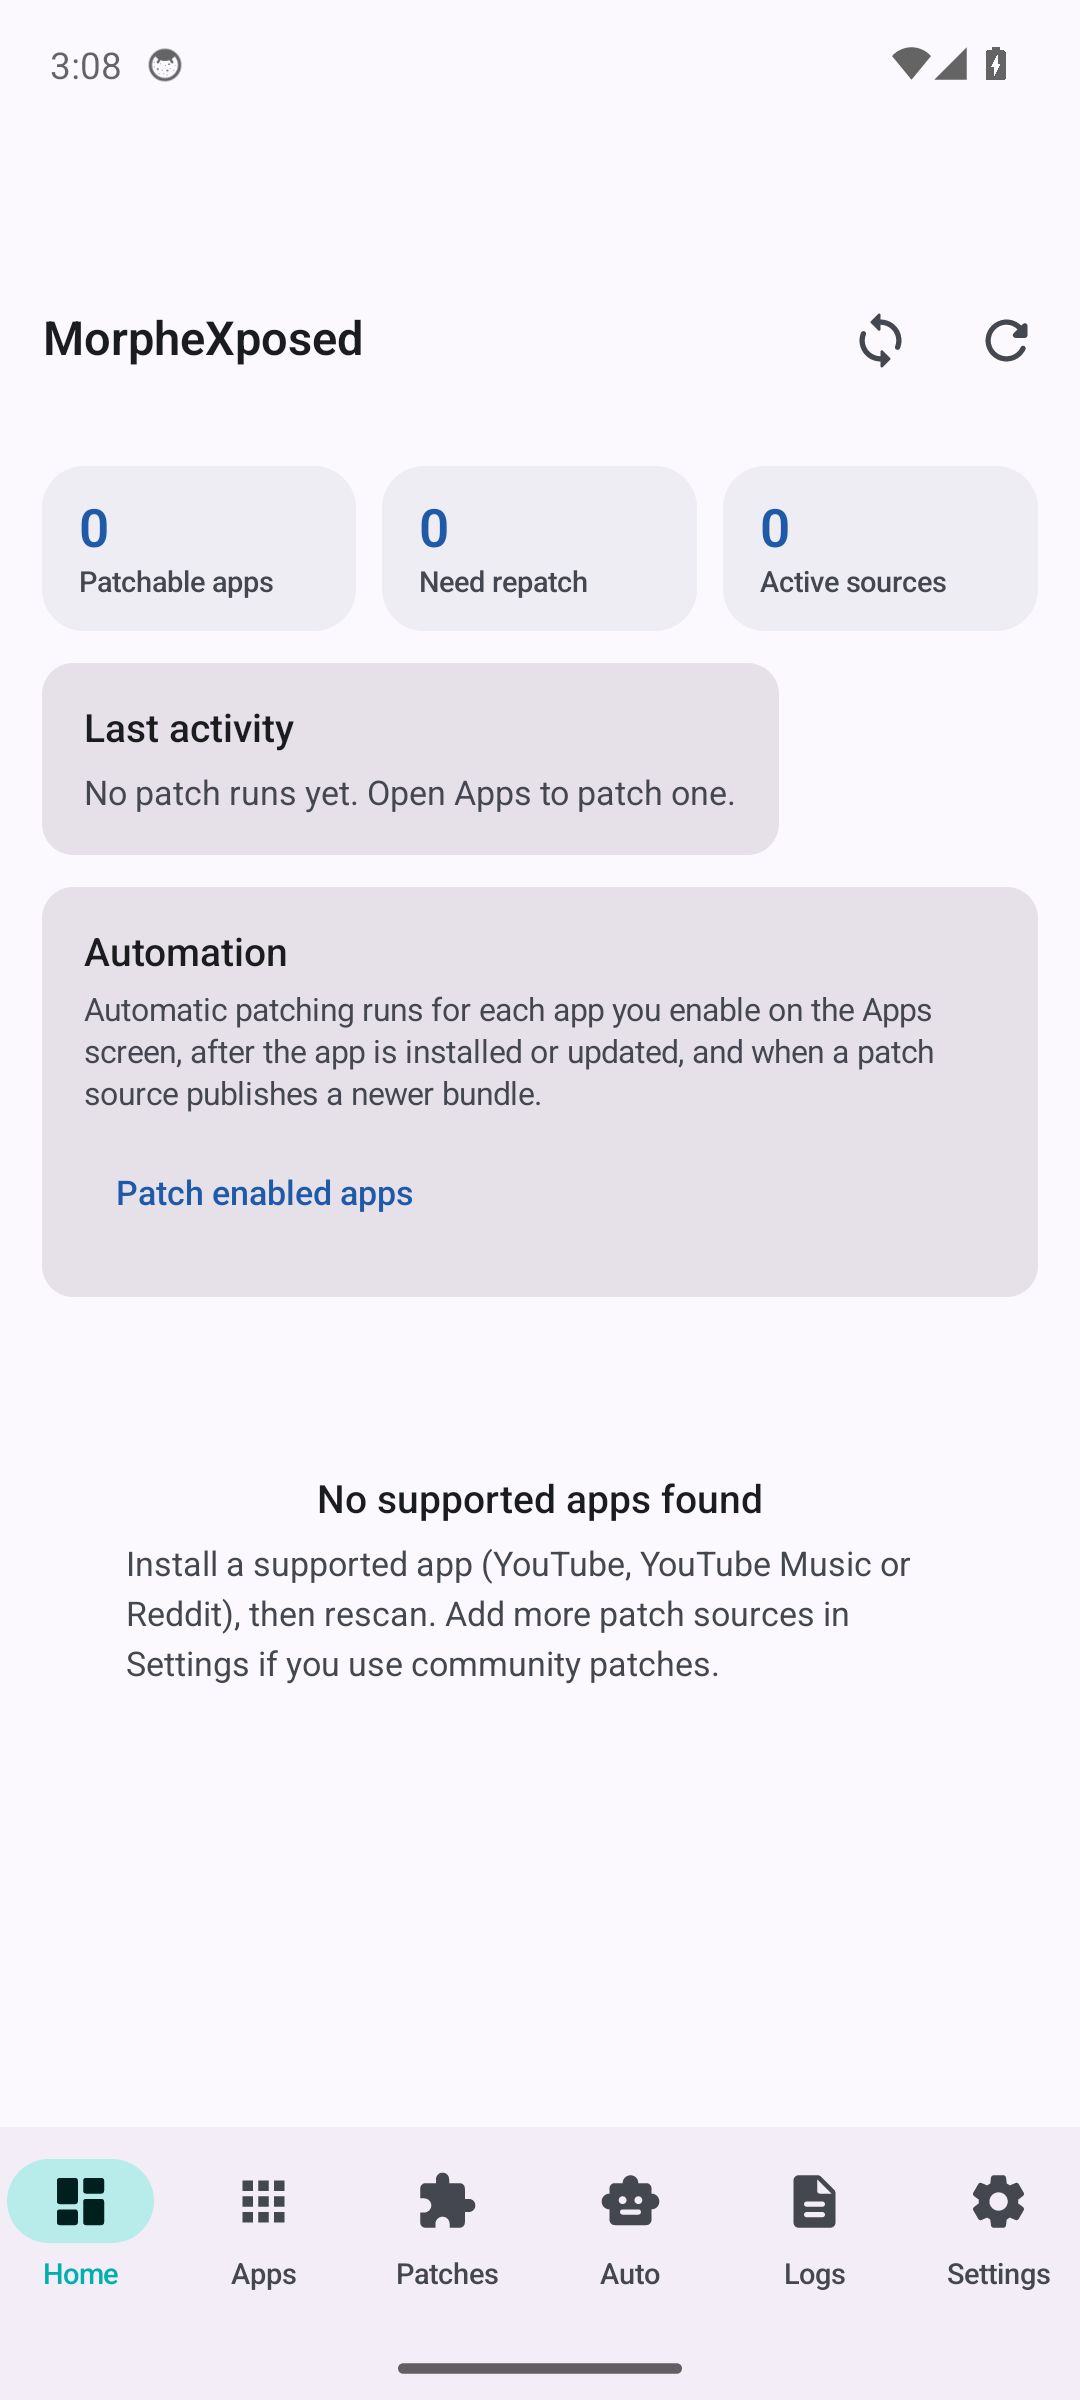
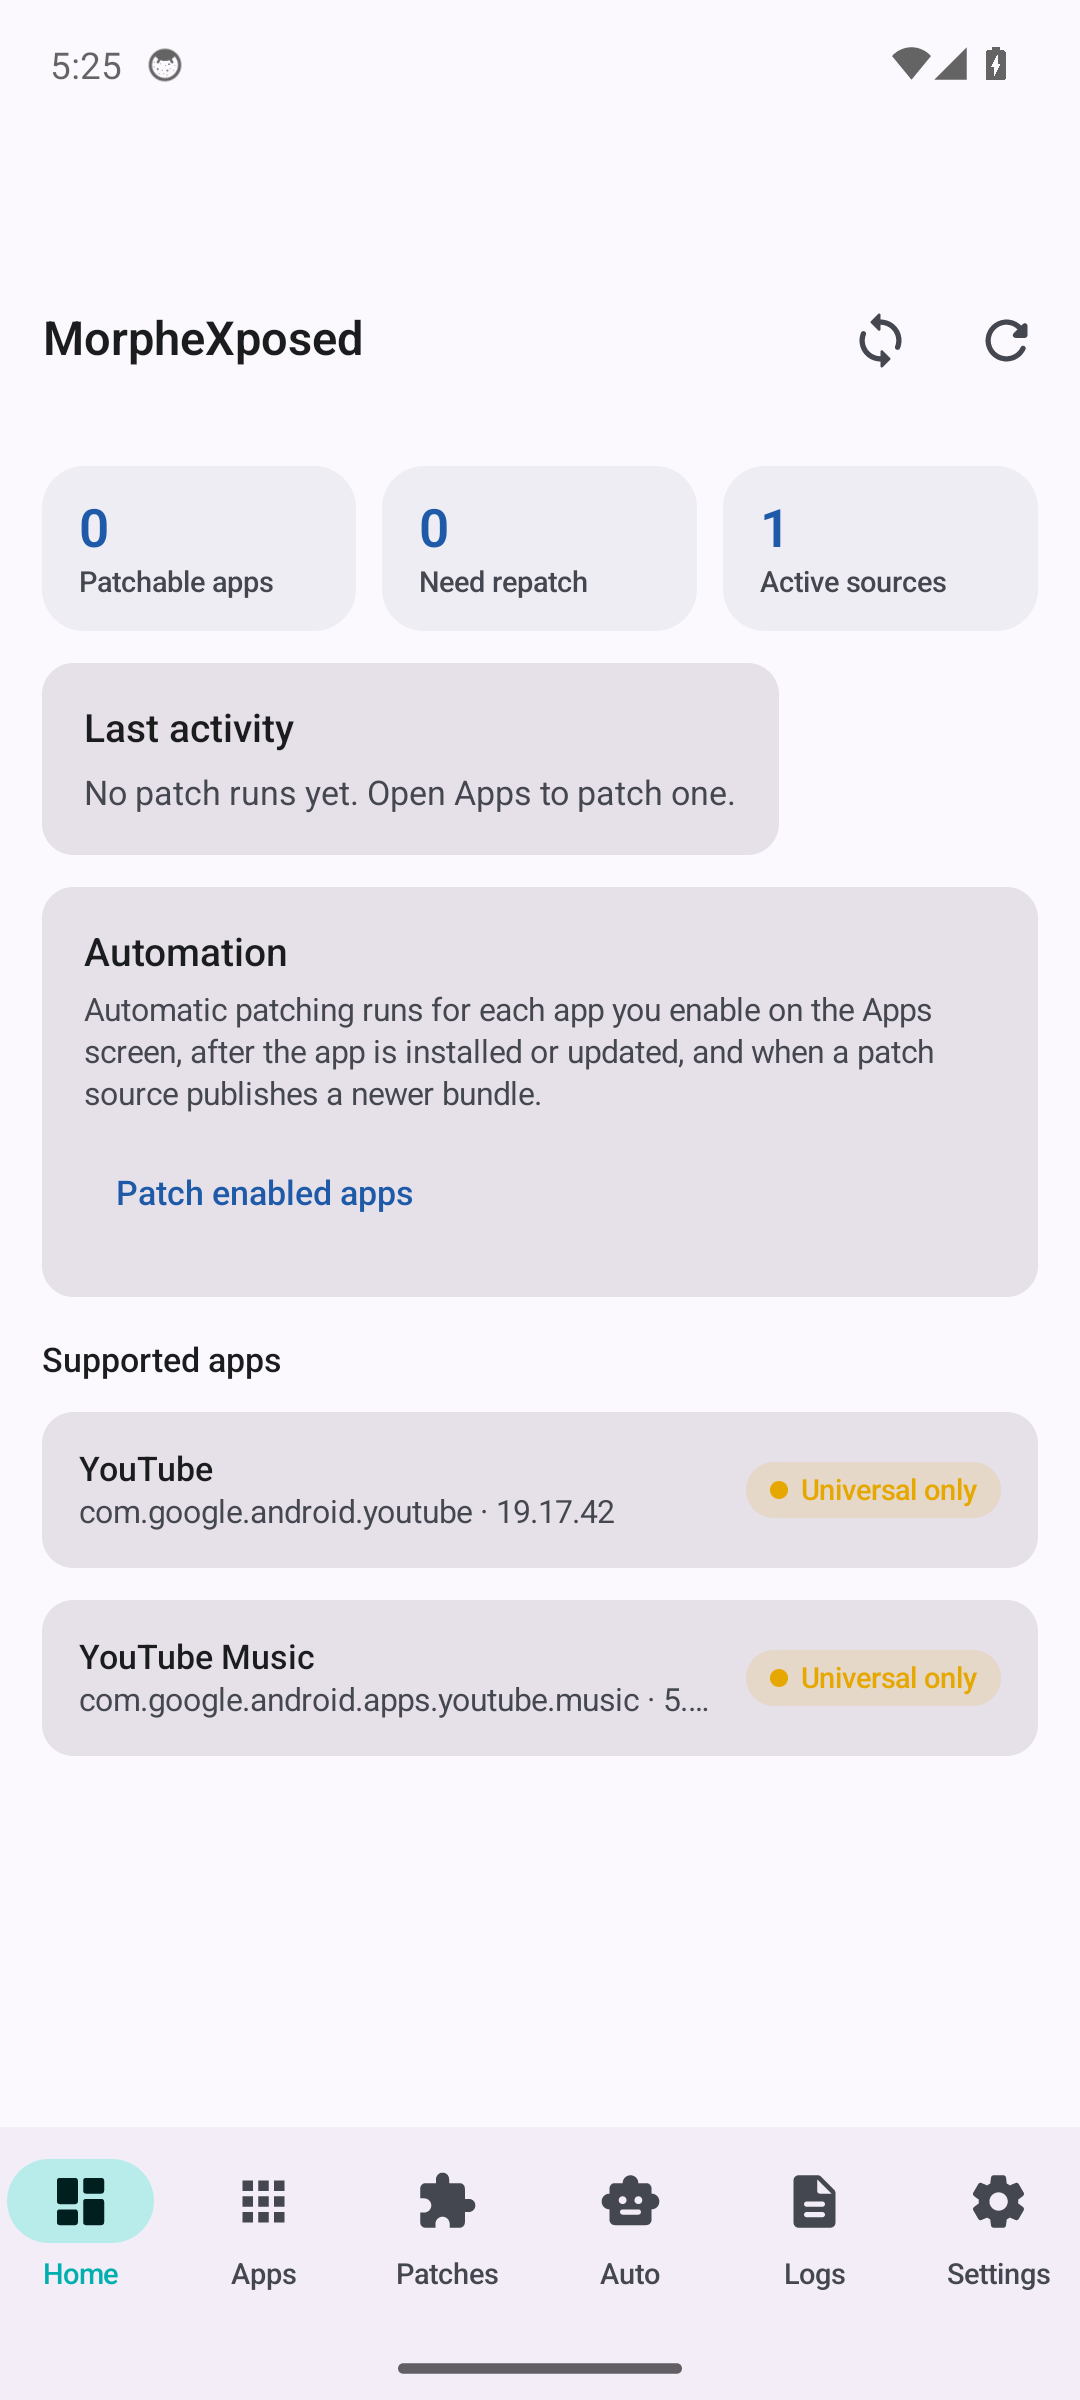
Fix three defects found by actually running the app on a device
Continuing the on-device pass. Each of these was invisible to every test.

1. Root detection assumed Magisk. RootShell hardcoded 'su -c', but the AOSP su on
   a userdebug build takes 'su <who> <command>' and rejects -c with 'invalid
   uid/gid'. The style is now probed once and cached, so both conventions work.

2. A doubled label: the Settings card appends ' (optional)' to every non-required
   item, and the LSPosed item's name already carried it - rendering
   'LSPosed (optional) (optional)'. A regression test now asserts no item repeats
   the suffix the card adds.

3. The Dashboard and the Apps screen disagreed about the same app at the same
   moment. AppUiModel.status fell back to NOT_SUPPORTED when the compatibility
   report had not been computed yet, so 'not evaluated' was rendered as the claim
   'Not supported' while the Apps screen, which had the report, said 'Universal
   only'. The status is now nullable and renders 'Checking...' when absent;
   absence of a verdict is not a verdict.

Verified on the emulator: the Dashboard now shows 'Universal only' for both
YouTube 19.17.42 and YouTube Music 5.54.52, matching the Apps screen.

Also worth recording: the emulator DOES have root (userdebug, adb root gives
uid=0), but /system/xbin/su is mode rwsr-x--- root:shell, so the app's own uid
cannot execute it. The Permissions card reporting 'Root access: Missing' is
therefore accurate, not a bug.

297 tests pass, 0 failures, 0 skipped.

Changed region(s): [[0.0306, 0.5625, 0.9778, 0.75], [0.7028, 0.1875, 0.7333, 0.25]]

diff --git a/app/src/main/java/dev/morphexposed/domain/install/Installers.kt b/app/src/main/java/dev/morphexposed/domain/install/Installers.kt
@@ -234,10 +234,68 @@ object RootShell {
     @Volatile
     private var cachedRoot: Boolean? = null
 
+    /**
+     * How this device's `su` accepts a command.
+     *
+     * There are two incompatible conventions and no way to ask in advance:
+     *
+     *  * Magisk, KernelSU and SuperSU take `su -c "<command>"`.
+     *  * The AOSP `su` shipped on userdebug builds takes `su <who> <command...>`, and rejects
+     *    `-c` outright with `su: invalid uid/gid '-c'`.
+     *
+     * Hardcoding `-c` made root undetectable on the emulator even though `adb root` reported
+     * uid=0 — the app said "no root" on a rooted device. Probed once and cached.
+     */
+    @Volatile
+    private var suStyle: SuStyle? = null
+
+    enum class SuStyle {
+        /** `su -c "<command>"` */
+        DASH_C,
+
+        /** `su <who> <command...>`, e.g. `su 0 id` */
+        WHO_COMMAND
+    }
+
+    /** Builds the argv this device's `su` understands. */
+    private fun argv(script: String): List<String> = when (probeStyle()) {
+        SuStyle.DASH_C -> listOf("su", "-c", script)
+        SuStyle.WHO_COMMAND -> listOf("su", "0", "sh", "-c", script)
+    }
+
+    /**
+     * Works out which convention works, by trying each once.
+     *
+     * A wrong guess is cheap (the process exits immediately with a usage error) and the answer is
+     * cached, so this runs at most twice per process.
+     */
+    private fun probeStyle(): SuStyle {
+        suStyle?.let { return it }
+
+        val dashC = runCatching {
+            val p = ProcessBuilder("su", "-c", "id").redirectErrorStream(true).start()
+            val out = p.inputStream.bufferedReader().readText()
+            p.waitFor()
+            out.contains("uid=0")
+        }.getOrDefault(false)
+        if (dashC) return SuStyle.DASH_C.also { suStyle = it }
+
+        val whoCommand = runCatching {
+            val p = ProcessBuilder("su", "0", "id").redirectErrorStream(true).start()
+            val out = p.inputStream.bufferedReader().readText()
+            p.waitFor()
+            out.contains("uid=0")
+        }.getOrDefault(false)
+        if (whoCommand) return SuStyle.WHO_COMMAND.also { suStyle = it }
+
+        // Neither worked; default to the Magisk convention so a later grant still succeeds.
+        return SuStyle.DASH_C.also { suStyle = it }
+    }
+
     fun hasRoot(): Boolean {
         cachedRoot?.let { return it }
         val ok = runCatching {
-            val process = ProcessBuilder("su", "-c", "id").redirectErrorStream(true).start()
+            val process = ProcessBuilder(argv("id")).redirectErrorStream(true).start()
             val output = process.inputStream.bufferedReader().readText()
             process.waitFor()
             output.contains("uid=0")
@@ -249,12 +307,13 @@ object RootShell {
     /** Forgets the cached probe so the next call re-tests (used after the user grants root). */
     fun invalidate() {
         cachedRoot = null
+        suStyle = null
     }
 
     fun run(vararg commands: String, verdict: (ExitStatus) -> Boolean): Boolean {
         val script = commands.joinToString(" ; ")
         return runCatching {
-            val process = ProcessBuilder("su", "-c", script).redirectErrorStream(true).start()
+            val process = ProcessBuilder(argv(script)).redirectErrorStream(true).start()
             val output = process.inputStream.bufferedReader().readText()
             val code = process.waitFor()
             verdict(ExitStatus(code, output))
@@ -270,7 +329,7 @@ object RootShell {
     fun pushFile(source: File, destinationPath: String): Boolean {
         if (!source.isFile) return false
         return runCatching {
-            val process = ProcessBuilder("su", "-c", "cat > $destinationPath")
+            val process = ProcessBuilder(argv("cat > $destinationPath"))
                 .redirectErrorStream(true)
                 .start()
             // Drain stderr/stdout so the child cannot block on a full pipe.
@@ -289,7 +348,7 @@ object RootShell {
 
     /** Writes [content] to [path] as root. */
     fun writeText(path: String, content: String): Boolean = runCatching {
-        val process = ProcessBuilder("su", "-c", "cat > $path").redirectErrorStream(true).start()
+        val process = ProcessBuilder(argv("cat > $path")).redirectErrorStream(true).start()
         process.outputStream.use { it.write(content.toByteArray()) }
         process.waitFor() == 0
     }.getOrDefault(false)

diff --git a/app/src/main/java/dev/morphexposed/ui/screens/AppsScreen.kt b/app/src/main/java/dev/morphexposed/ui/screens/AppsScreen.kt
@@ -35,6 +35,8 @@ import androidx.compose.ui.unit.dp
 import dev.morphexposed.domain.apps.Compatibility
 import dev.morphexposed.ui.components.EmptyState
 import dev.morphexposed.ui.components.StatusChip
+import dev.morphexposed.ui.components.colorOrUnknown
+import dev.morphexposed.ui.components.labelOrUnknown
 import dev.morphexposed.ui.components.color
 import dev.morphexposed.ui.components.label
 import dev.morphexposed.ui.viewmodel.AppUiModel
@@ -159,7 +161,7 @@ private fun AppRow(
                         overflow = TextOverflow.Ellipsis
                     )
                 }
-                StatusChip(model.status.label(), model.status.color())
+                StatusChip(model.status.labelOrUnknown(), model.status.colorOrUnknown())
             }
 
             if (model.report != null && !model.report.reason.isNullOrBlank()) {
@@ -224,7 +226,7 @@ private fun AppDetailDialog(
             Column(verticalArrangement = Arrangement.spacedBy(8.dp)) {
                 DetailRow("Package", model.app.packageName)
                 DetailRow("Installed", model.app.versionName)
-                DetailRow("Status", model.status.label())
+                DetailRow("Status", model.status.labelOrUnknown())
                 if (report != null) {
                     if (report.supportedVersions.isNotEmpty()) {
                         DetailRow("Supported", report.supportedVersions.take(5).joinToString(", "))

diff --git a/app/src/test/java/dev/morphexposed/automation/PermissionStatusTest.kt b/app/src/test/java/dev/morphexposed/automation/PermissionStatusTest.kt
@@ -3,6 +3,7 @@ package dev.morphexposed.automation
 import android.content.Context
 import androidx.test.core.app.ApplicationProvider
 import org.junit.Assert.assertEquals
+import org.junit.Assert.assertFalse
 import org.junit.Assert.assertNotNull
 import org.junit.Assert.assertNull
 import org.junit.Assert.assertTrue
@@ -87,6 +88,18 @@ class PermissionStatusTest {
                 "one rather than an assumption",
             item.granted || item.remedy != null
         )
+    }
+
+    @Test
+    fun `no item repeats the optional suffix in its own name`() {
+        // The Settings card appends " (optional)" to every non-required item, so a name that also
+        // carried it rendered "LSPosed (optional) (optional)" on a real device.
+        status.read().forEach { item ->
+            assertFalse(
+                "${item.name} already contains the optional suffix the card adds",
+                item.name.contains("(optional)", ignoreCase = true)
+            )
+        }
     }
 
     @Test

diff --git a/app/src/main/java/dev/morphexposed/ui/viewmodel/MainViewModel.kt b/app/src/main/java/dev/morphexposed/ui/viewmodel/MainViewModel.kt
@@ -34,7 +34,15 @@ data class AppUiModel(
     val app: SupportedAppEntity,
     val report: CompatibilityReport?
 ) {
-    val status: Compatibility get() = report?.status ?: Compatibility.NOT_SUPPORTED
+    /**
+     * The verdict, or null when it has not been computed yet.
+     *
+     * This used to fall back to [Compatibility.NOT_SUPPORTED], which turned "not evaluated" into
+     * a positive claim. On a device the Dashboard showed "Not supported" for YouTube while the
+     * Apps screen showed "Universal only" for the same app at the same moment, because only one of
+     * them had the report. Absence of a verdict is not a verdict.
+     */
+    val status: Compatibility? get() = report?.status
     val needsRepatch: Boolean
         get() = app.lastPatchedVersion != null && app.lastPatchedVersion != app.versionName
 }

diff --git a/app/src/main/java/dev/morphexposed/ui/screens/DashboardScreen.kt b/app/src/main/java/dev/morphexposed/ui/screens/DashboardScreen.kt
@@ -32,6 +32,8 @@ import dev.morphexposed.domain.apps.Compatibility
 import dev.morphexposed.ui.components.EmptyState
 import dev.morphexposed.ui.components.MetricTile
 import dev.morphexposed.ui.components.StatusChip
+import dev.morphexposed.ui.components.colorOrUnknown
+import dev.morphexposed.ui.components.labelOrUnknown
 import dev.morphexposed.ui.components.color
 import dev.morphexposed.ui.components.label
 import dev.morphexposed.ui.viewmodel.AppUiModel
@@ -194,7 +196,7 @@ private fun DashboardAppRow(model: AppUiModel, onClick: () -> Unit) {
                     overflow = TextOverflow.Ellipsis
                 )
             }
-            StatusChip(model.status.label(), model.status.color())
+            StatusChip(model.status.labelOrUnknown(), model.status.colorOrUnknown())
         }
     }
 }

diff --git a/app/src/main/java/dev/morphexposed/automation/PermissionStatus.kt b/app/src/main/java/dev/morphexposed/automation/PermissionStatus.kt
@@ -90,7 +90,9 @@ class PermissionStatus(private val context: Context) {
         val state = runCatching { LsposedStatus(context).read() }.getOrNull()
         val available = state?.managerInstalled == true
         return Item(
-            name = "LSPosed (optional)",
+            // The card appends " (optional)" to every item with required = false, so the name must
+            // not carry it too — doing both rendered "LSPosed (optional) (optional)".
+            name = "LSPosed",
             granted = available,
             description = "Enables real-time app install and update detection. Automation works " +
                 "without it, on the scheduled check.",

diff --git a/app/src/main/java/dev/morphexposed/ui/components/Common.kt b/app/src/main/java/dev/morphexposed/ui/components/Common.kt
@@ -127,3 +127,16 @@ fun MetricTile(
         )
     }
 }
+
+/**
+ * Label for a verdict that may not have been computed yet.
+ *
+ * A null verdict means "not evaluated", never "not supported". Showing a compatibility claim the
+ * app has not made is how the Dashboard and the Apps screen came to disagree about the same app
+ * at the same moment on a real device.
+ */
+fun Compatibility?.labelOrUnknown(): String = this?.label() ?: "Checking…"
+
+/** Colour for [labelOrUnknown]: neutral while the verdict is unknown. */
+fun Compatibility?.colorOrUnknown(): Color =
+    this?.color() ?: Color(0xFF757575)
